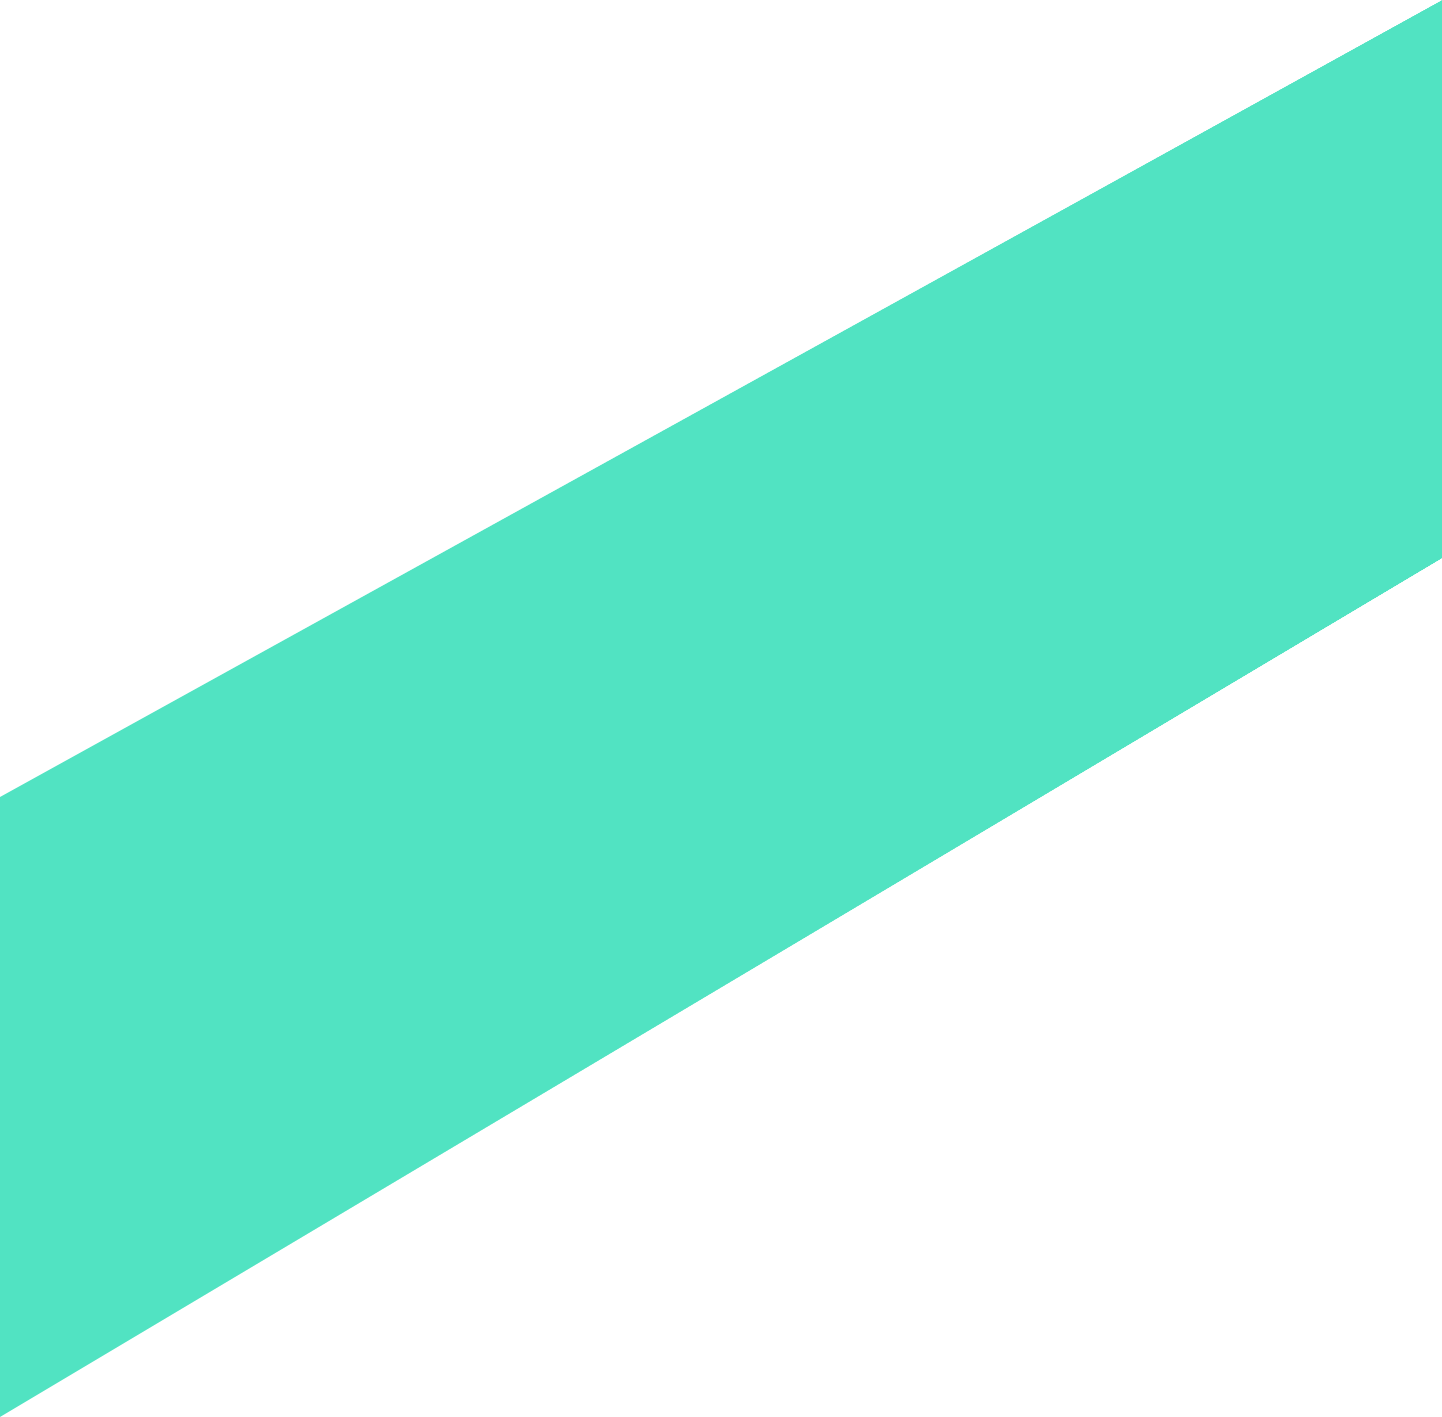
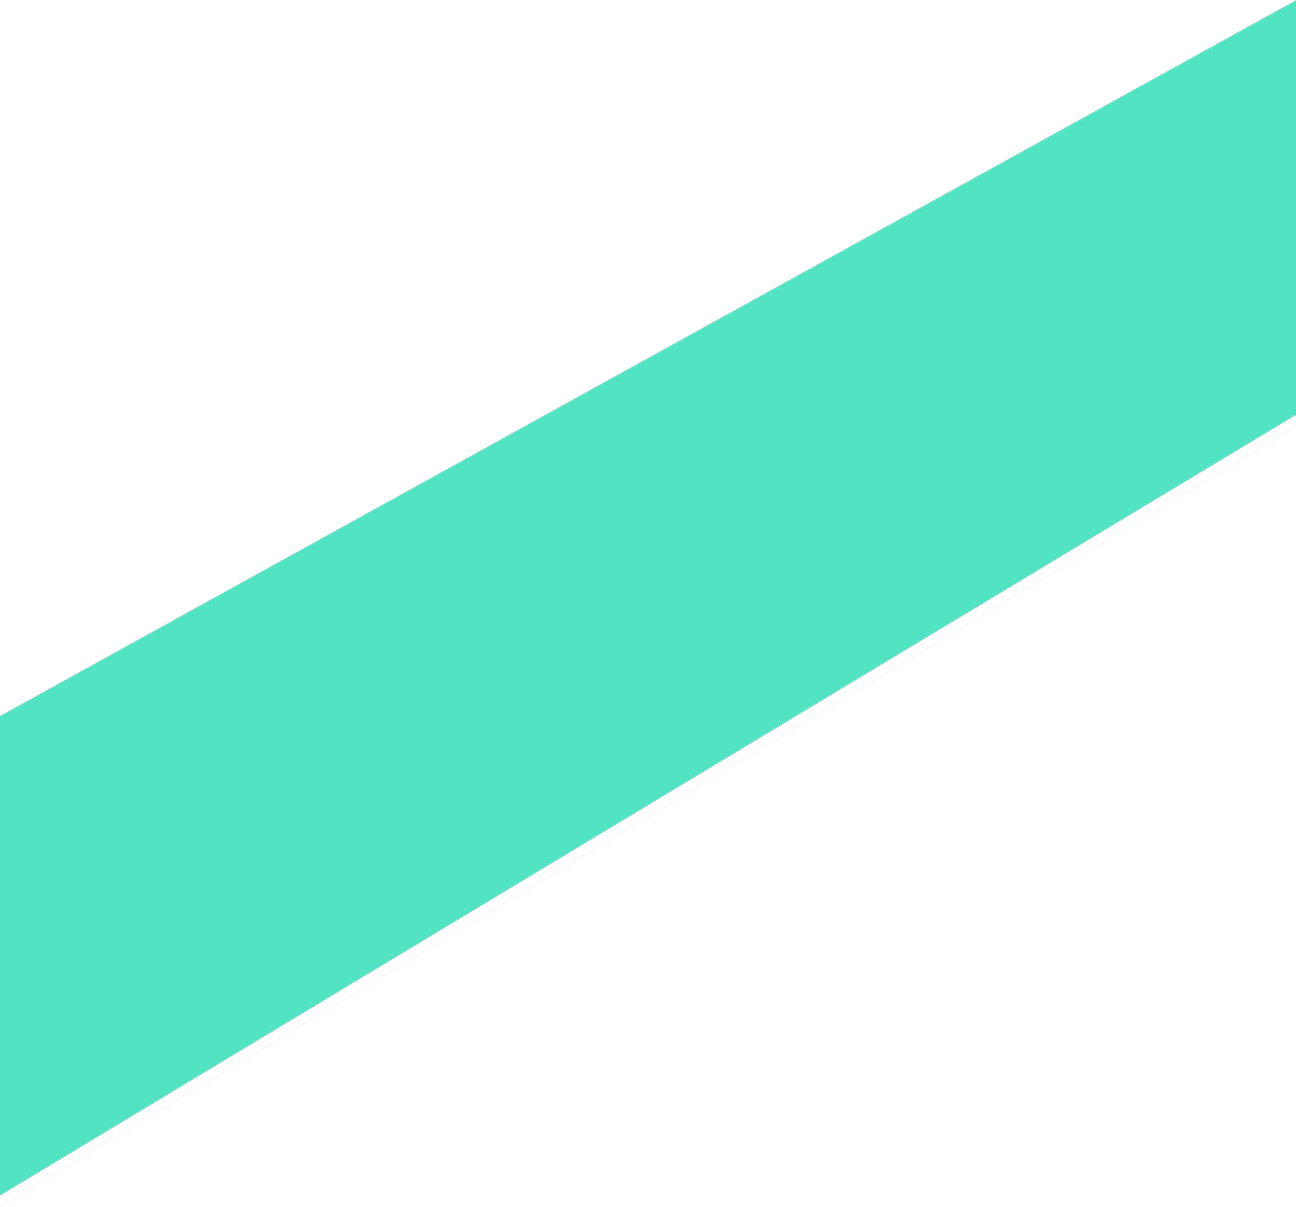
RNW-30, deleted second background

diff --git a/hugo/themes/hugo-hero-theme/assets/scss/components/_page-home.scss b/hugo/themes/hugo-hero-theme/assets/scss/components/_page-home.scss
@@ -16,7 +16,7 @@
     position: relative;
     width: 100%;
     padding: 4px;
-    background-image: url("/img/teal-background2.png");
+    background-image: url("/img/teal-background.png");
     background-position: center;
     background-repeat: no-repeat;
     background-size: auto;
